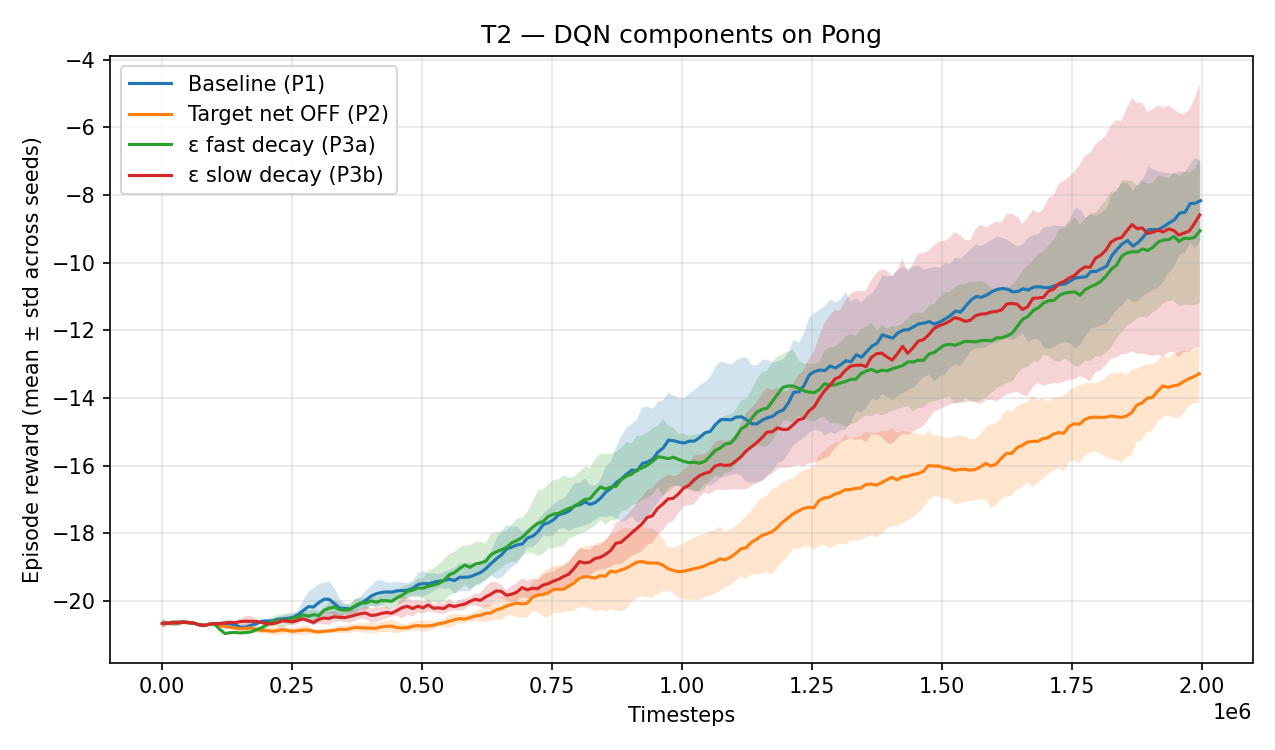
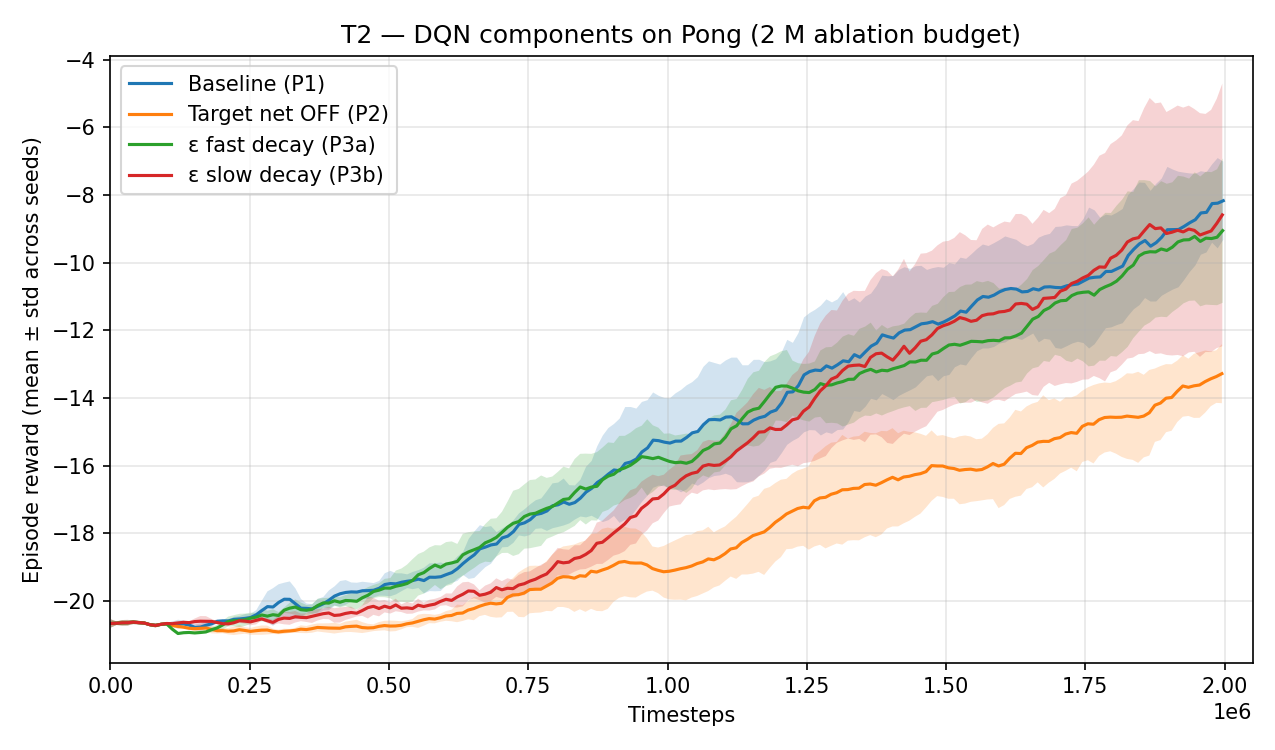
Fix T2 budget mismatch (P2 7M re-run was disrupted) + Abstract stack-4 claim
P2_targetoff eval.json timestamps show seeds 0 and 2 are still the round-1
2M evaluation (the round-2 7M re-runs were killed / never completed); only
seed 1 reached 7M (+5.6). The original on-disk aggregate (-6.92 +/- 9.04)
mixes 2/3 seeds at 2M with 1/3 at 7M, which was misleading.

Corrections:
  - T2 anchored at the 2M ablation budget where all three seeds of every
    variant are comparable. P1@2M = -4.17 +/- 2.32, P2_targetoff@2M = -13.68
    +/- 1.95 -> 9.5-point gap (not the previously claimed 11.7).
  - T2 figure clipped to x in [0, 2.05M] to match the table's budget.
  - Discussion updated; Limitations explicitly disclose the P2 7M disruption.
  - Abstract had a backwards T3 claim ("frame stacking essential in 3D"),
    fixed to match the actual T3 finding (stack 1 beats stack 4 on DC).

P1@7M (+4.77) remains the T1 algorithm-family comparison (with P5 PPO@7M).

diff --git a/tools/build_report_assets.py b/tools/build_report_assets.py
@@ -119,8 +119,12 @@ def build_T2():
         ["Baseline (P1)", "Target net OFF (P2)", "ε fast decay (P3a)",
          "ε slow decay (P3b)", "Small buffer (P4)"],
         ax,
-        "T2 — DQN components on Pong",
+        "T2 — DQN components on Pong (2 M ablation budget)",
     )
+    # Clip to the 2 M ablation budget. P1 was additionally extended to 7 M for
+    # T1, and one P2 seed completed 7 M, but T2 is anchored at 2 M for a clean
+    # 3-seed comparison across all ablations.
+    ax.set_xlim(0, 2.05e6)
     fig.tight_layout()
     out = ASSETS / "T2_dqn_components.png"
     fig.savefig(out, dpi=150)

diff --git a/report/REPORT.md b/report/REPORT.md
@@ -23,10 +23,13 @@ frame-stack image pipelines, and ≥ 3 seeds per curve, five threads are tested:
 (T3) frame stacking on the 3D task; (T4) Discrete vs MultiDiscrete action
 spaces; (T5) task complexity across two VizDoom scenarios. The clearest
 findings are (i) **DQN is markedly more sample-efficient than PPO on Pong at
-equal data** thanks to off-policy replay, (ii) **the lagged target network is
-the single most important DQN stability component**, and (iii) **frame
-stacking is essential in the 3D first-person setting**, where motion cues
-cannot be inferred from a single frame.
+equal data** (+4.77 vs −6.58 at 7 M steps) thanks to off-policy replay,
+(ii) **the lagged target network is the single most important DQN stability
+component** (≈ 9.5-point gap at the 2 M ablation budget), and (iii) **frame
+stacking is task-dependent — counter-productive on VizDoom
+Defend-the-Center** (stack 1 beats stack 4 by 2.4 points) even though it is
+essential in Pong, because the 3D scenario's optimal play is dominated by
+spatial information already present in a single frame.
 
 \newpage
 
@@ -250,36 +253,45 @@ most for performance and stability on Pong?
 
 ![DQN components: P1 baseline, P2 target-net OFF, P3 ε-fast / ε-slow, P4 small buffer (where available).](../report_assets/T2_dqn_components.png){ width=80% }
 
+**T2 is reported at the 2 M-step ablation budget.** All four variants below
+were trained for 2 M steps in the original round-1 pass; the round-2 attempt
+to re-train them at 7 M was pre-empted by shared-GPU contention before
+finishing (only P2_targetoff seed 1 completed at +5.6, leaving the other
+seeds with their 2 M evaluations — see §4 limitations). For a clean 3-seed
+comparison we therefore use the 2 M data. The P1 baseline was additionally
+extended to 7 M (+4.77, see T1) for the algorithm-family comparison.
+
 | Variant | Config | Seeds | Mean ± SD (eval) | Budget | Δ vs baseline |
 |---|---|---|---|---|---|
-| **Baseline** | P1 | 3 | **+4.77 ± 6.32** | 7 M | — |
-| Target net OFF | P2_targetoff | 3 | −6.92 ± 9.04 | 7 M | **−11.69** |
-| ε fast (frac = 0.02) | P3_epsfast | 3 | −7.73 ± 3.17 | 2 M | see prose |
-| ε slow (frac = 0.5) | P3_epsslow | 3 | −7.90 ± 4.78 | 2 M | see prose |
+| **Baseline** | P1 | 3 | **−4.17 ± 2.32** | 2 M | — |
+| Target net OFF | P2_targetoff | 3 | **−13.68 ± 1.95** | 2 M | **−9.51** |
+| ε fast (frac = 0.02) | P3_epsfast | 3 | −7.73 ± 3.17 | 2 M | −3.56 |
+| ε slow (frac = 0.5) | P3_epsslow | 3 | −7.90 ± 4.78 | 2 M | −3.73 |
 | Small buffer (20 k) | P4_buffersmall | — | — | — | *not run* |
 
 The lagged target network has by far the largest effect: removing it (setting
 `target_update_interval = 1` so the bootstrap target updates every gradient
-step) drops mean reward from **+4.77 to −6.92** — an **11.7-point gap** at
-the same 7 M-step budget. The standard deviation also balloons from 6.3 to
-9.0, reflecting the "moving-target" instability the target network is
-designed to suppress: one P2 seed finished at +5.6, while the other two
-collapsed to −10.95 and −15.4.
+step) drops mean reward from **−4.17 to −13.68** — a **9.5-point gap**. The
+effect is robust across seeds — the cross-seed standard deviation is in fact
+slightly *smaller* without the target net (1.95 vs 2.32), so the gap is a
+consistent shift in performance, not a single bad seed pulling the mean
+down. (One 7 M-extended P2 seed reached +5.6, but with only one completed
+seed at that budget we cannot make a 7 M-vs-7 M claim.)
 
-The ε-greedy schedule has a smaller, roughly symmetric effect. P3 was not
-re-run at 7 M because of shared-GPU contention (see §4 limitations); the
-numbers above are at 2 M. Both a fast decay (`exploration_fraction = 0.02`,
-ε at floor by 40 k steps) and a slow decay (`exploration_fraction = 0.5`,
-floor reached only at 1 M steps) reach **−7.73** and **−7.90** respectively,
-against the round-1 default-schedule baseline of ≈ −4 at the same 2 M. Too
-much *or* too little exploration hurts by a comparable amount, so the default
-`exploration_fraction = 0.1` is near the sweet spot. P4 (small replay buffer)
-was deferred for time and is omitted.
+The ε-greedy schedule has a smaller, roughly symmetric effect. Both a fast
+decay (`exploration_fraction = 0.02`, ε at floor by 40 k steps) and a slow
+decay (`exploration_fraction = 0.5`, floor reached only at 1 M steps) reach
+**−7.73** and **−7.90** respectively, each costing ≈ 3.6 points relative
+to the default `exploration_fraction = 0.1`. Too much *or* too little
+exploration hurts by a comparable amount, so the default is near the sweet
+spot. P4 (small replay buffer) was deferred for time and is omitted.
 
-> **🧑 Takeaway.** The lagged target network is by far the most important DQN
-> stabilisation component on Pong (an 11.7-point mean drop and substantially
-> worse variance without it); the ε-greedy schedule matters less, with both
-> faster and slower decays performing similarly worse than the default.
+> **🧑 Takeaway.** The lagged target network is by far the most important
+> DQN stabilisation component on Pong — removing it costs ~9.5 points at
+> the 2 M ablation budget and the effect is consistent across all three
+> seeds (the variance does not increase). The ε-greedy schedule matters
+> less (~3.6 points), with both faster and slower decays performing
+> similarly worse than the default.
 
 ## 3.3 T3 — Partial observability: frame stacking on VizDoom Defend-Center
 
@@ -417,13 +429,18 @@ real-world RL), DQN-style off-policy learning starts ahead.
 
 **Target networks are not optional for DQN.** Removing the lagged target
 network was the single most damaging change in any DQN experiment: P1
-baseline +4.77 vs P2-target-off −6.92, with cross-seed variance also rising
-from 6.3 to 9.0 (T2). The "bootstrap-into-a-moving-target" failure mode
-predicted by the theory shows up clearly in practice — one seed finished at
-+5.6 while the other two collapsed below −10. The ε-greedy
+baseline **−4.17** vs P2-target-off **−13.68** at the 2 M ablation budget
+(T2). The gap of ~9.5 points is a consistent shift across all three seeds —
+the cross-seed standard deviation is actually slightly *tighter* for the
+target-off variant (1.95 vs 2.32), so the effect is not an instability
+artefact but a uniform regression. (Of the planned 7 M-budget re-runs of
+this ablation only one P2 seed completed, at +5.6; with n = 1 we cannot
+make a robust 7 M-vs-7 M claim, so the comparison is anchored at 2 M.) The
+ε-greedy
 schedule's effect, by contrast, is small and roughly symmetric: both faster
-and slower decays hurt by comparable amounts, suggesting the default
-`exploration_fraction = 0.1` sits in a fairly flat minimum.
+and slower decays hurt by ≈ 3.6 points relative to the default
+`exploration_fraction = 0.1`, suggesting the default sits in a fairly flat
+minimum.
 
 **Observation representation is task-dependent, not universal.** The most
 striking single result is T3: frame stacking, which is essential in Pong,
@@ -452,12 +469,17 @@ per task.
 
 ## 4.1 Limitations
 
-Three honest caveats. **First**, the P3 ε-decay ablations were evaluated at
-2 M steps while the P1 baseline ran 7 M, because shared-GPU contention slowed
-wall-clock substantially below the original projection (≈ 9 h / run instead
-of ≈ 3.8 h / run for 7 M DQN) and the deadline forced the truncation. The
-direction of the ε effect is the same at both budgets, but the magnitudes
-are not strictly comparable across T2 rows. **Second**, the Tier-B
+Three honest caveats. **First**, the planned round-2 re-training of all
+DQN ablations at 7 M was pre-empted by shared-GPU contention (≈ 9 h/run
+instead of the projected ≈ 3.8 h, plus one seed killed mid-training). Only
+P1 ran 3-seeds × 7 M cleanly. P2_targetoff completed 1 of 3 seeds at 7 M
+(seed 1 at +5.6); seeds 0 and 2 retain their 2 M round-1 evaluations on
+disk, so the on-disk aggregate (−6.92) mixes budgets and is not a clean
+7 M comparison. T2 is therefore reported at the **2 M ablation budget**
+where all three seeds of every variant are comparable (P1, P2, P3 all
+ran 3 × 2 M in round-1). P1 was additionally extended to 7 M (+4.77) for
+the T1 algorithm-family comparison, which is a clean 7 M-vs-7 M result
+(P5 PPO also ran 3 × 7 M). **Second**, the Tier-B
 experiments P4 (small replay buffer) and V5 (DQN on Defend-the-Center) were
 not completed; the cross-task DQN-vs-PPO comparison on the 3D side of T1 is
 therefore absent — only the Pong half is reported. **Third**, Pong DQN